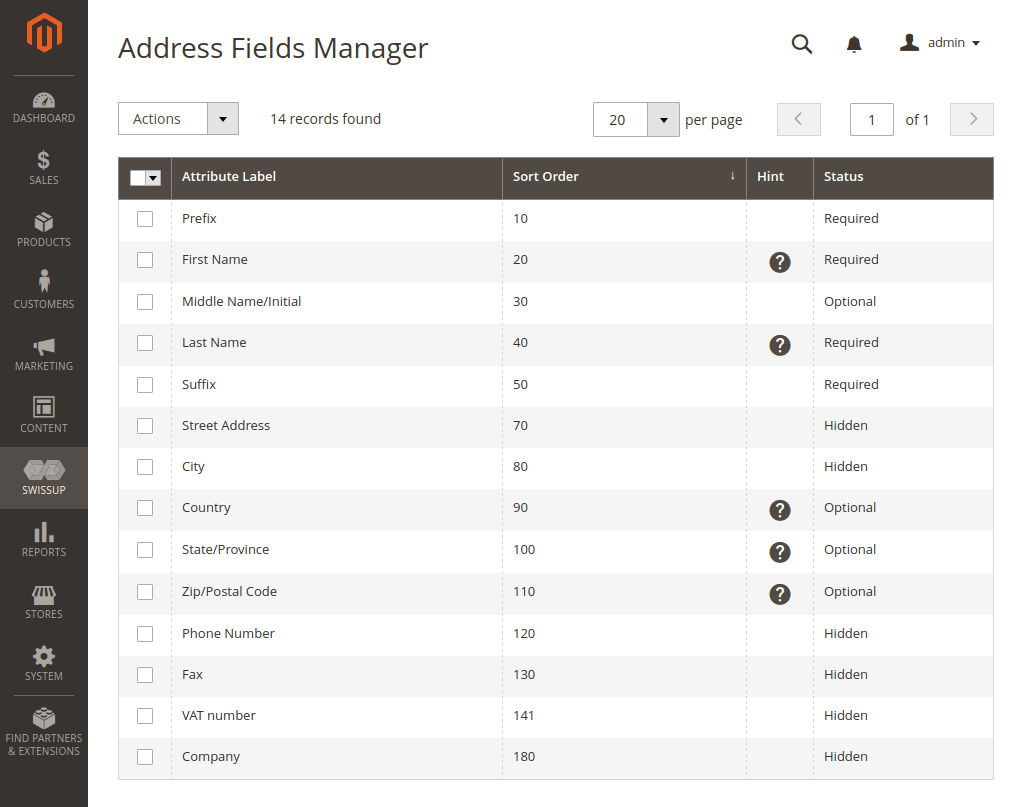
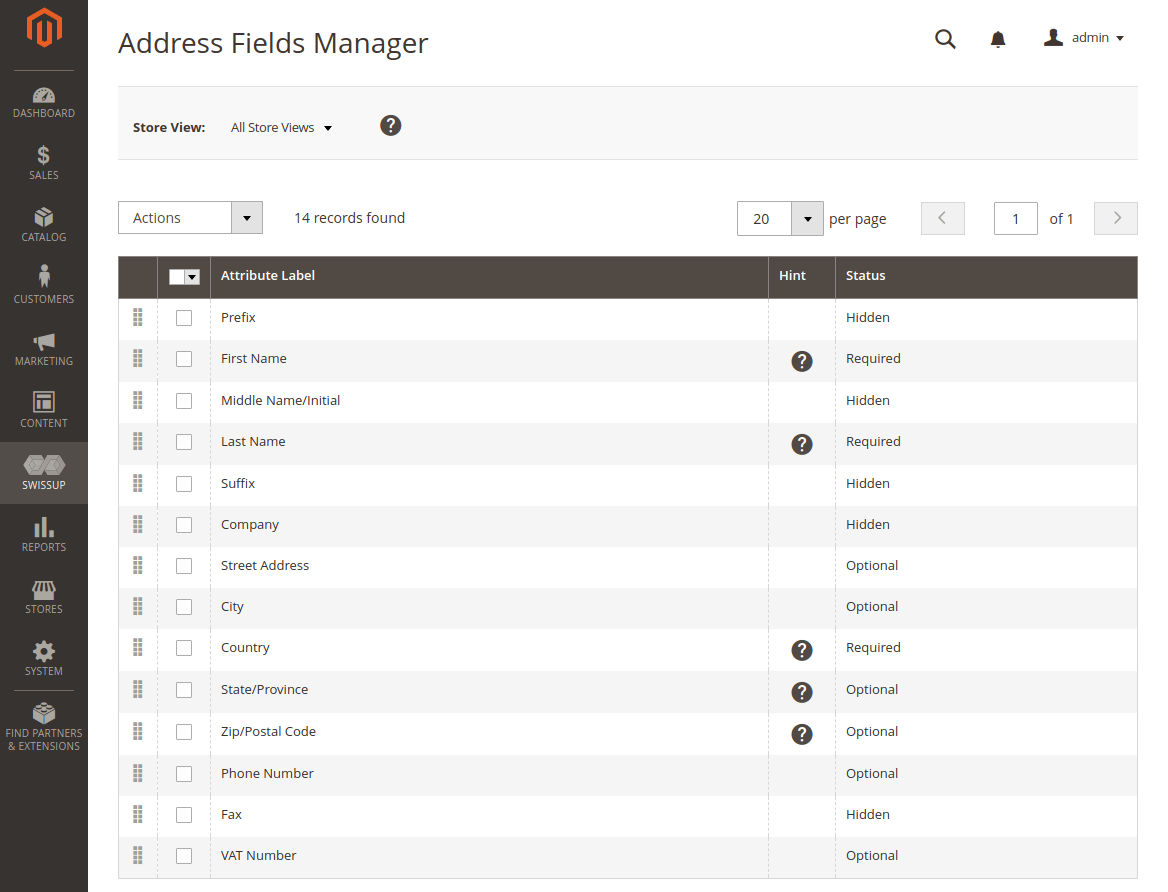
AddressFieldManager M2: Updated usage section

diff --git a/m2/extensions/address-field-manager/usage.md b/m2/extensions/address-field-manager/usage.md
@@ -11,13 +11,21 @@ category: Address Field Manager
 Address Field Manager interface is available at _"Swissup > Address Field Manager"_
 menu.
 
-In order to edit field status or sort order, just click the row, and enter
-corresponding values into inline edit form. Additionally, you can select
-multiple rows and choose **"Edit"** in _Actions_ dropdown.
+ 1. If you'd like to change field status for specific website only - select it 
+    in the _Store View_ dropdown:
 
-{% include gallery.html images=site.data.gallery.m2.address-field-manager.usage class="scroll phone-up-1 tablet-up-3 photoswipe" %}
+    ![Store view Dropdown](/images/m2/address-field-manager/backend/store-view.png)
+
+    > Please note, that sort order is a global value and can't be edited per website.
+
+ 2. Select the rows, and click corresponding action in _Actions_ dropdown:
+
+    ![Actions Dropdown](/images/m2/address-field-manager/backend/actions-status.png)
+
+ 3. Grab the row handle and drag it to change field sort order:
+
+    ![Drag and Drop](/images/m2/address-field-manager/backend/drag-n-drop.png)
 
 #### Next up
 
- -  [Back to Main Page](../)
- -  [Troubleshooting](../troubleshooting/)
+ -  [Back to Main Page](/m2/extensions/address-field-manager/)

diff --git a/m2/extensions/address-field-manager/changelog.md b/m2/extensions/address-field-manager/changelog.md
@@ -10,6 +10,8 @@ category: Address Field Manager
 
 ### Version 1.1.0
 
+See updated [usage section](/m2/extensions/address-field-manager/usage/)
+
  -  Added ability to set and remove field status per website
  -  Added synchronization with Magento's config options
  -  Added drag-n-drop feature to sort the fields

diff --git a/m2/extensions/address-field-manager/index.md b/m2/extensions/address-field-manager/index.md
@@ -20,4 +20,3 @@ sort order. Works great with standard magento checkout and
  1. [Installation](installation/)
  2. [Changelog](changelog/)
  3. [Usage](usage/)
- 4. [Troubleshooting](troubleshooting/)
